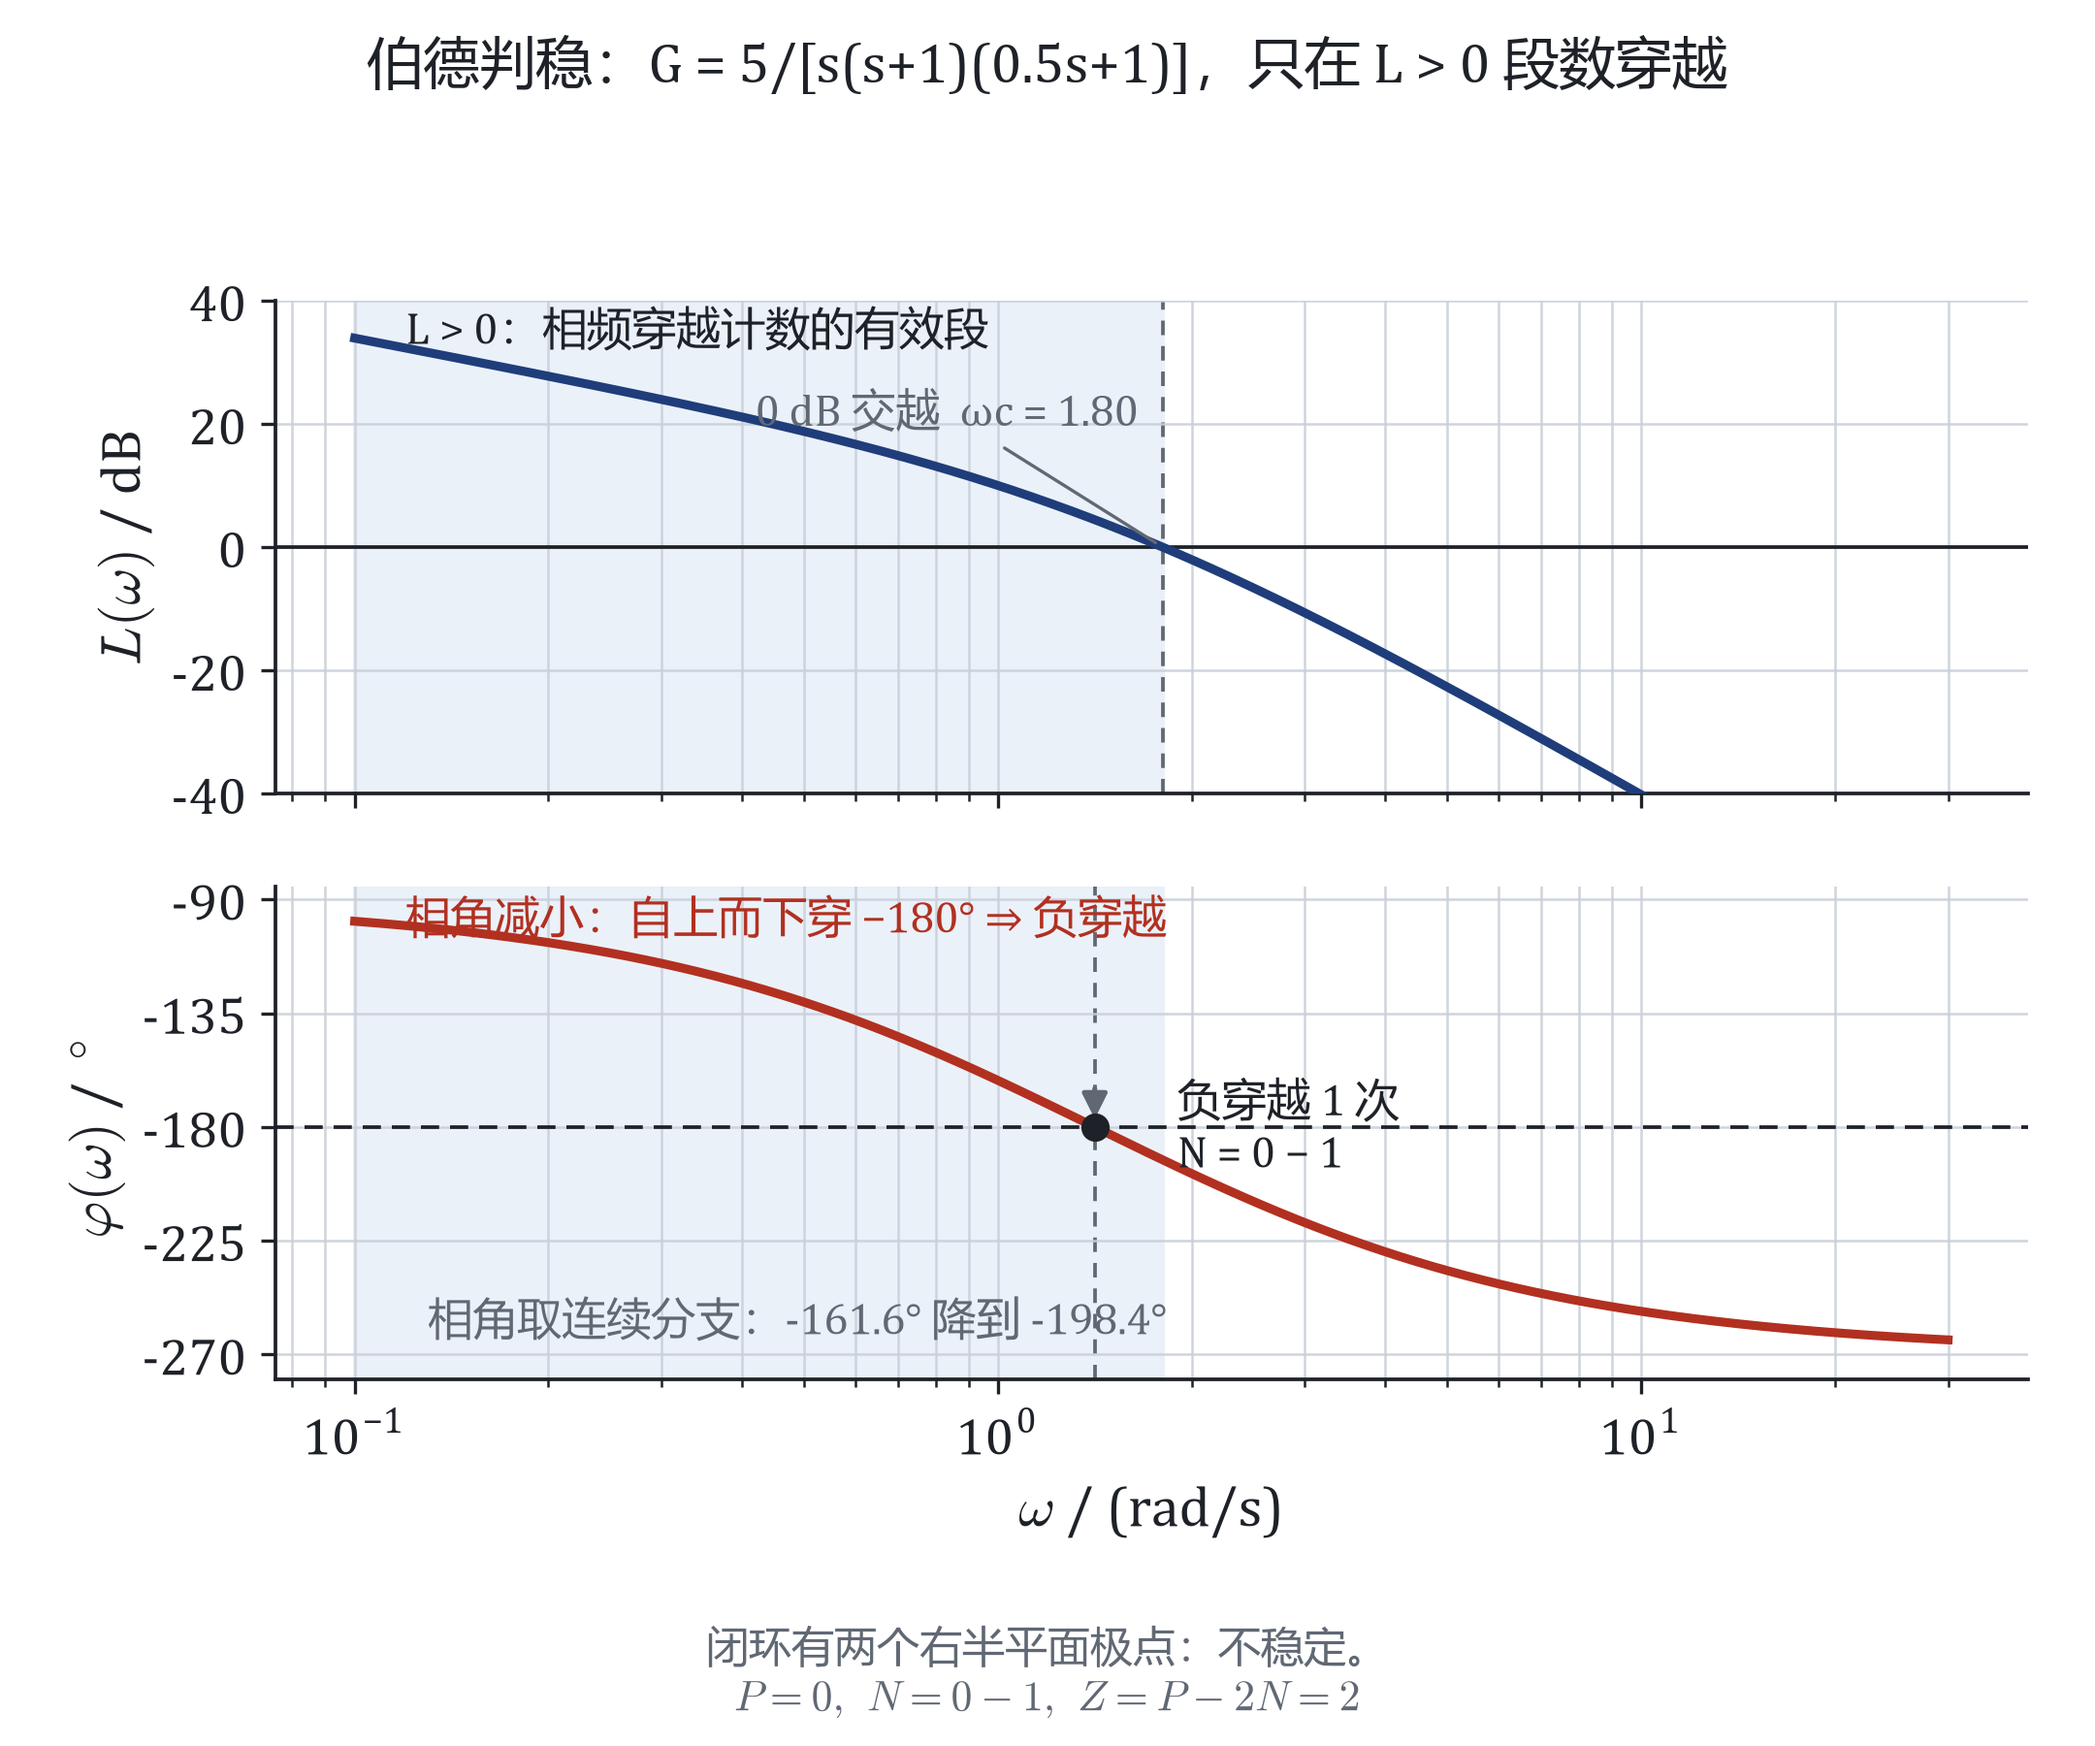
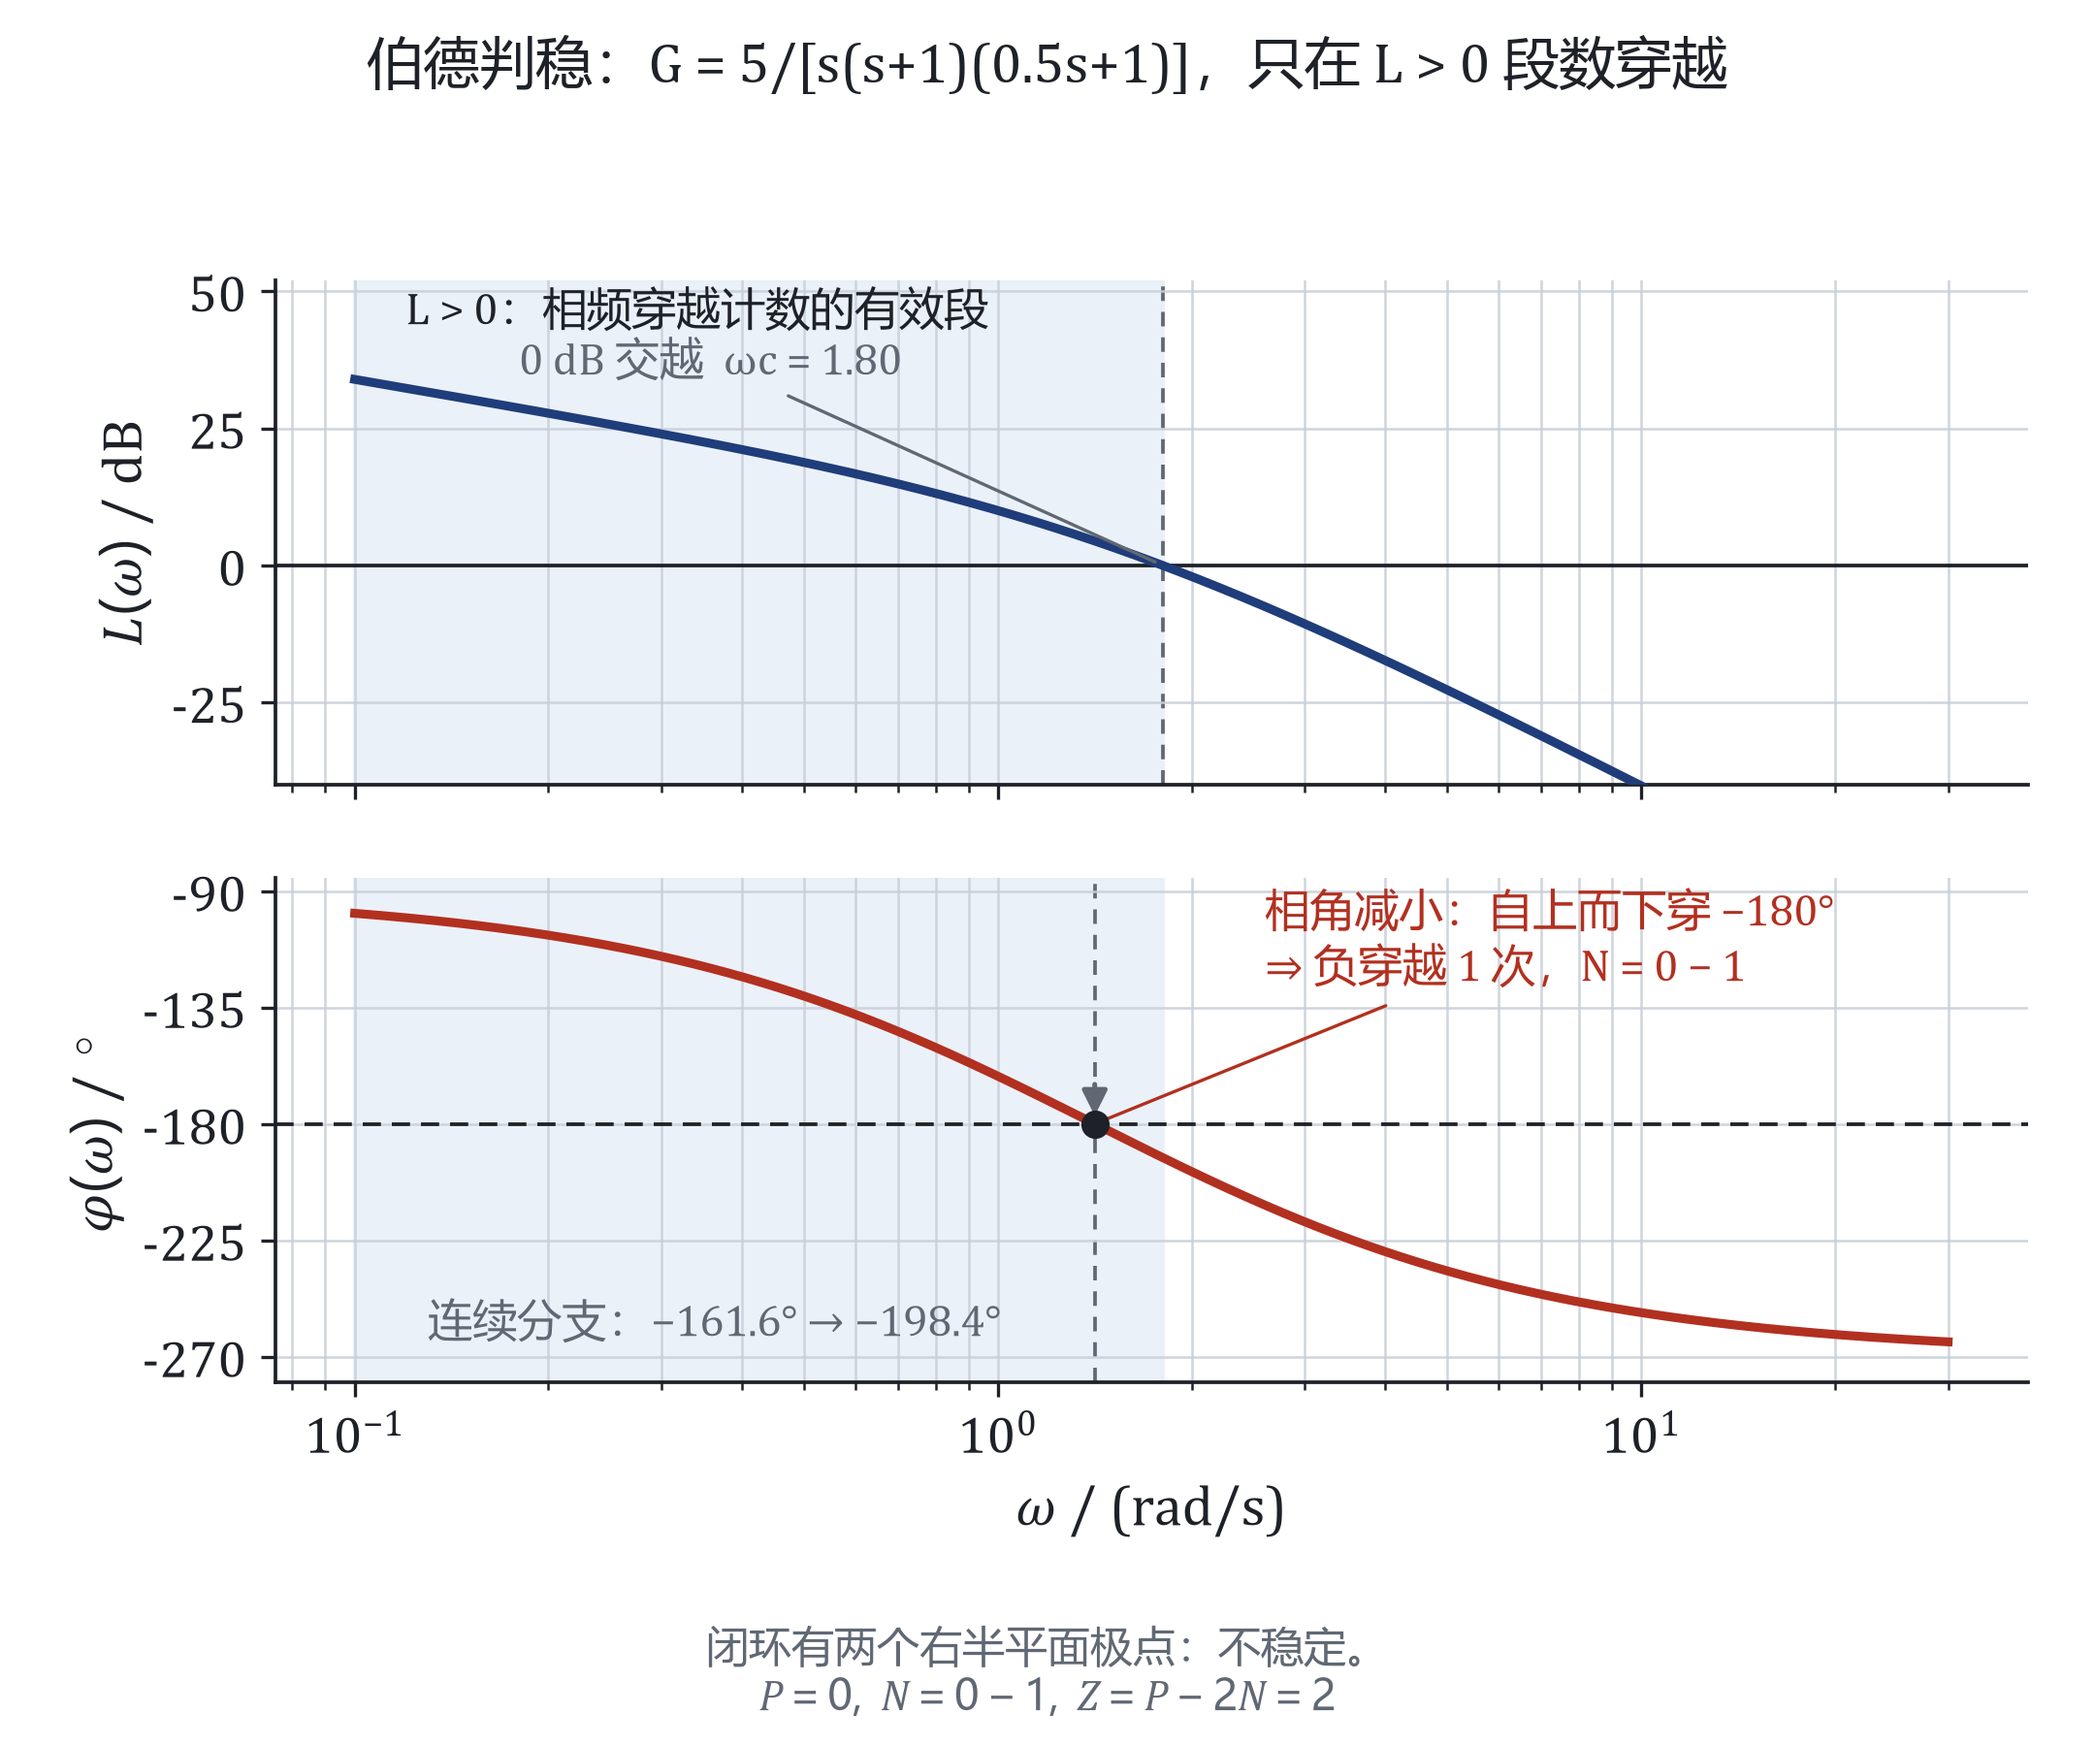
fix: 清掉「伯德判稳」图的 7 处标注遮挡（最重 191 点）
- 相频曲线从 -100° 一路降到 -270°，左侧没有空地：把「相角减小…负穿越」
  与「负穿越 1 次/N=0-1」合并成一块放右上（-130° 一带，曲线在那里已降到
  -200° 以下），用细引线连回 (√2, -180°) 穿越点。
- 幅频顶部留到 52 dB：低频端曲线已贴到 34 dB，两条说明只能叠在它上面
  （原来「L>0」压曲线 49 点、「0 dB 交越」压下降段 74 点）。
- 「相角取连续分支…」缩短文案，不再横跨 ω=√2 的竖虚线。

自检 0 处。

diff --git a/.scripts/figures/ch5-bode-judge.py b/.scripts/figures/ch5-bode-judge.py
@@ -65,11 +65,13 @@ def draw(sys):
     ax1.axhline(0, color=fs.INK, lw=0.9, zorder=2)
     ax1.semilogx(w, mag_db, color=fs.MAG, lw=2.2, zorder=3)
     ax1.axvline(W_CROSS, color=fs.SUB, lw=0.9, ls=(0, (4, 3)), zorder=1)
-    ax1.set_ylim(-40, 40)
+    # 顶部留到 52 dB：低频端曲线已经贴到 34 dB，两条说明只能叠在它上面
+    ax1.set_ylim(-40, 52)
     ax1.set_ylabel(r"$L(\omega)$ / dB")
-    ax1.text(0.12, 33, "L > 0：相频穿越计数的有效段", fontsize=11, color=fs.INK)
-    ax1.annotate("0 dB 交越  ωc = 1.80", xy=(W_CROSS, 0), xytext=(-6, 30),
-                 textcoords="offset points", fontsize=11, color=fs.SUB, ha="right",
+    ax1.text(0.12, 44, "L > 0：相频穿越计数的有效段", fontsize=11, color=fs.INK)
+    # 原来放在交越点左上，正好压在 0 dB 以上的下降段上（74 点）；抬到曲线之上
+    ax1.annotate("0 dB 交越  ωc = 1.80", xy=(W_CROSS, 0), xytext=(0.18, 33),
+                 fontsize=11, color=fs.SUB, ha="left", va="bottom",
                  arrowprops=dict(arrowstyle="-", color=fs.SUB, lw=0.8))
 
     # --- 相频 ---
@@ -82,11 +84,17 @@ def draw(sys):
     ax2.set_yticks([-90, -135, -180, -225, -270])
     ax2.set_xlabel(r"$\omega$ / (rad/s)")
     ax2.set_ylabel(r"$\varphi(\omega)$ / $^\circ$")
-    ax2.text(0.12, -103, "相角减小：自上而下穿 −180° ⇒ 负穿越", fontsize=11, color=fs.PHA)
-    ax2.text(1.9, -196, "负穿越 1 次\nN = 0 − 1", fontsize=11, color=fs.INK)
+    # 相频曲线从 -100° 一路降到 -270°，左侧上方根本没有空地放长句：
+    # 两条说明分别挪到右上（-110° 一带，曲线在那里已降到 -200° 以下）和
+    # 右下（-245° 一带，在曲线之下又低于 -180° 线），再用细引线连回穿越点。
+    ax2.annotate("相角减小：自上而下穿 −180°" "\n" "⇒ 负穿越 1 次，N = 0 − 1",
+                 xy=(W_PHASE, -180), xytext=(2.6, -130), fontsize=11,
+                 color=fs.PHA, ha="left", va="bottom",
+                 arrowprops=dict(arrowstyle="-", color=fs.PHA, lw=0.8))
     ax2.annotate("", xy=(W_PHASE, -180), xytext=(W_PHASE, -161.6),
                  arrowprops=dict(arrowstyle="-|>", color=fs.SUB, lw=1.2))
-    ax2.text(0.13, -262, "相角取连续分支：-161.6° 降到 -198.4°",
+    # 缩短到不横跨 ω=√2 那条竖虚线（原来正好骑上去）
+    ax2.text(0.13, -262, "连续分支：−161.6° → −198.4°",
              fontsize=11, color=fs.SUB)
 
     fs.tidy(ax1, which="both")
